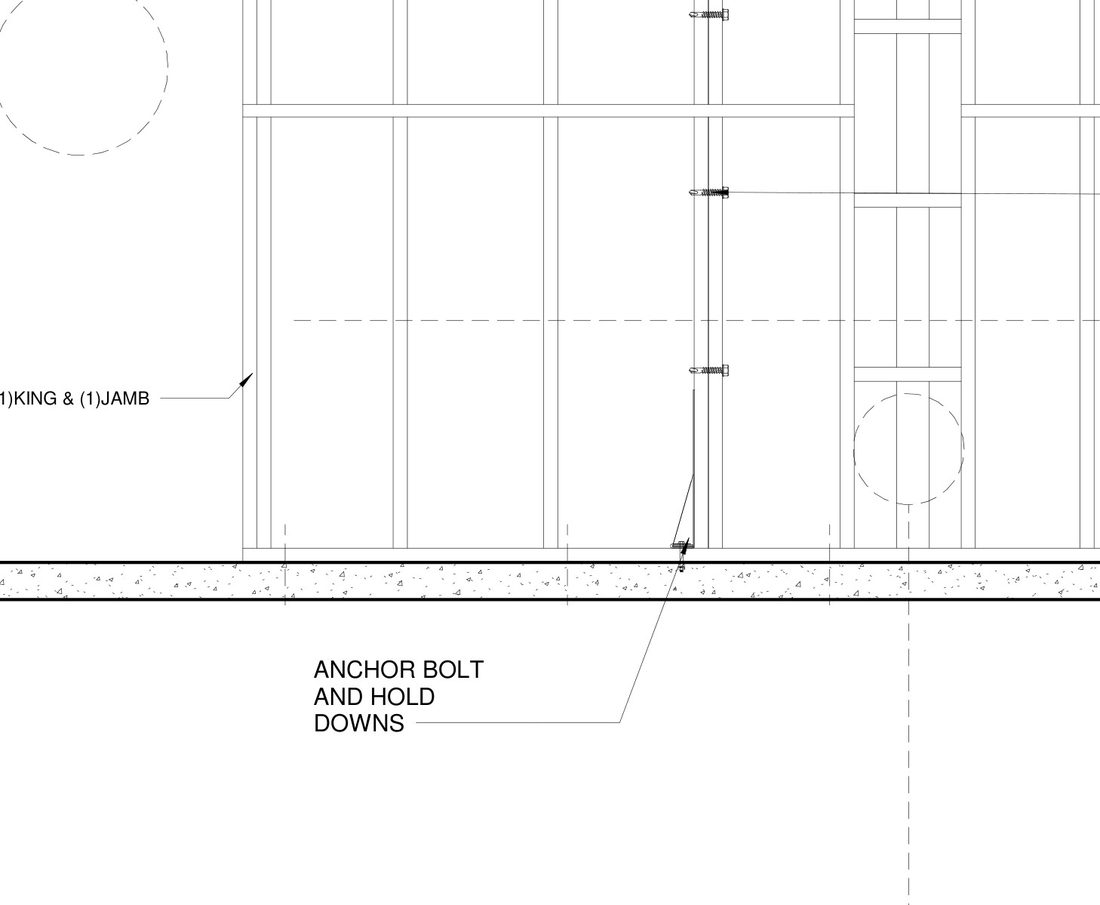
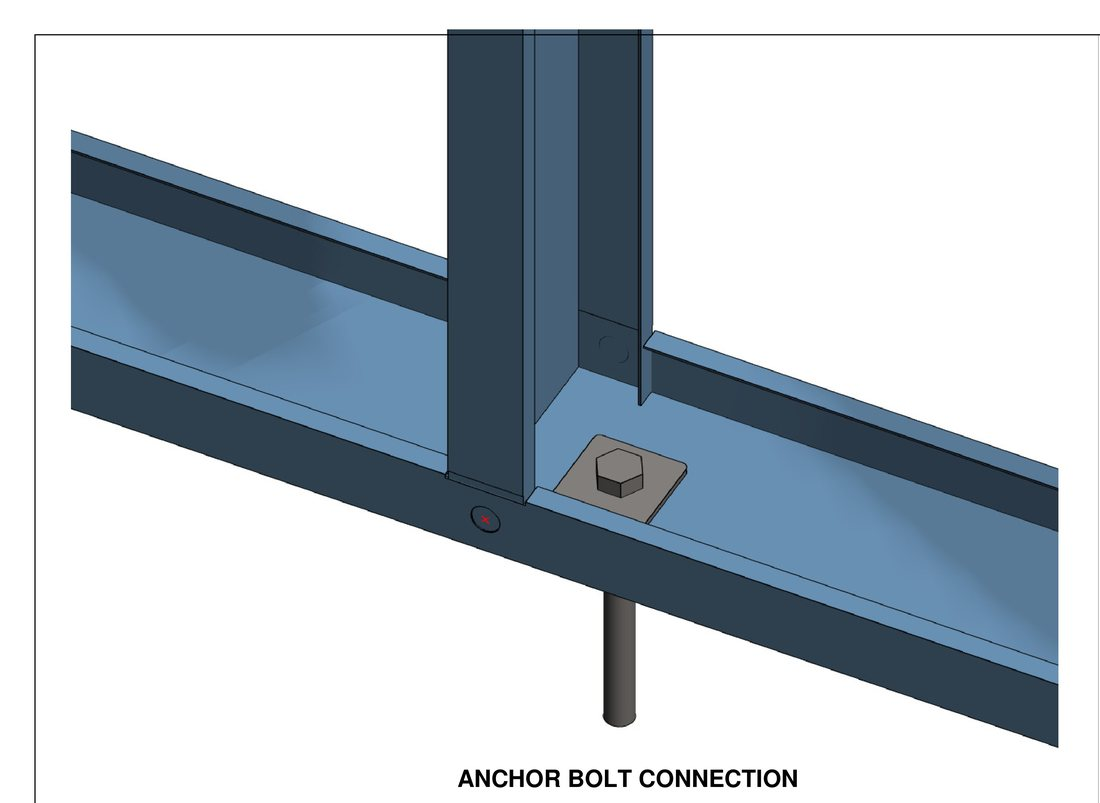
Add a real bolt image, upgrade hold-down/anchor to isometric crops (#56)
The client's fuller TYPICAL_DETAILS.pdf upload (sheets S660/S661/S662,
beyond the first upload's S620/S640/S650) carries the same project's own
3D-rendered isometric connection details rather than flat 2D callouts:

- bolt: sheet S661's "PANEL TO PANEL CONNECTION" shows two real hex bolt
  heads partway up a stud — a genuine structural bolt, unlike the
  self-drilling screws (#10/#12) the first upload only ever showed, which
  is why this hotspot had no image until now.
- hold-down / anchor: swapped from the first pass's flat 2D crops to sheet
  S660's own "HOLDDOWN CONNECTION" / "ANCHOR BOLT CONNECTION" isometrics —
  same real connections, clearer picture of them.

top-track and sheathing are untouched: no equivalent isometric exists for
either in the newer sheets, so their existing crops stand.

Bumps the site's shared cache-bust version (index.html) to v=56.

Claude-Session: https://claude.ai/code/session_017cek8tGGv9x21jDEq8oUay

diff --git a/ui_kits/website/index.html b/ui_kits/website/index.html
@@ -27,8 +27,8 @@
      locally-referenced file's content changes; anything unbumped keeps
      whatever cached copy a visitor already has, which is the whole
      problem this exists to avoid. -->
-<link rel="stylesheet" href="../../styles.css?v=55">
-<link rel="stylesheet" href="responsive.css?v=55">
+<link rel="stylesheet" href="../../styles.css?v=56">
+<link rel="stylesheet" href="responsive.css?v=56">
 <script type="application/ld+json">
 {"@context":"https://schema.org","@type":"ProfessionalService","name":"UBC BIM","description":"BIM detailing for wood-frame and light-gauge-steel construction: wall panels, roof and floor trusses, MEP coordination, permit sets and machine files.","url":"https://ubc-bim.vercel.app/","image":"https://ubc-bim.vercel.app/ui_kits/website/assets/frames/05-facade.jpg","areaServed":"Worldwide","knowsAbout":["Building Information Modelling","Light-gauge steel framing","Wood frame construction","Roof and floor trusses","MEP clash detection","Permit documentation"],"serviceType":["Wall panel detailing","Roof and floor trusses","Engineering of walls and trusses","MEP detailing and clash detection","Permit documents","Bill of Materials and machine CSV","Architectural drafting"]}
 </script>
@@ -37,8 +37,8 @@
 <script src="https://unpkg.com/@babel/standalone@7.29.0/babel.min.js" integrity="sha384-m08KidiNqLdpJqLq95G/LEi8Qvjl/xUYll3QILypMoQ65QorJ9Lvtp2RXYGBFj1y" crossorigin="anonymous"></script>
 <script src="https://unpkg.com/animejs@3.2.1/lib/anime.min.js" integrity="sha384-fXdIufVbE9aU7STmdk/DWK0imNOozId9fTwzM/gi0NfPjphEIC3gq0M760UnsKVy" crossorigin="anonymous"></script>
 <script src="assets/vendor/cobe.js"></script>
-<script src="../../_ds_bundle.js?v=55"></script>
-<script src="data.js?v=55"></script>
+<script src="../../_ds_bundle.js?v=56"></script>
+<script src="data.js?v=56"></script>
 <style>@keyframes ubcRing{0%{transform:translateX(-50%) rotate(0)}18%{transform:translateX(-50%) rotate(-13deg)}38%{transform:translateX(-50%) rotate(11deg)}58%{transform:translateX(-50%) rotate(-7deg)}78%{transform:translateX(-50%) rotate(4deg)}100%{transform:translateX(-50%) rotate(0)}}@keyframes ubcPulse{0%{opacity:.9;transform:translateX(-50%) scale(1)}100%{opacity:0;transform:translateX(-50%) scale(2.6)}}@keyframes ubcCaret{0%,49%{opacity:1}50%,100%{opacity:0}}@keyframes ubcMarqueeV{from{transform:translateY(0)}to{transform:translateY(calc(-100% - var(--ubc-mq-gap)))}}@keyframes ubcHotspotPulse{0%{opacity:.9;transform:scale(1)}100%{opacity:0;transform:scale(2.2)}}</style>
 </head><body><div id="root"></div>
 <noscript>
@@ -58,18 +58,18 @@
     <p>783 projects completed across 12 countries, for 224 clients, by a team of 73.</p>
   </main>
 </noscript>
-<script type="text/babel" src="ModelViewer.jsx?v=55"></script>
-<script type="text/babel" src="FramingSchematic.jsx?v=55"></script>
-<script type="text/babel" src="SceneHero.jsx?v=55"></script>
-<script type="text/babel" src="Home.jsx?v=55"></script>
-<script type="text/babel" src="Portfolio.jsx?v=55"></script>
-<script type="text/babel" src="MockingBirdModel.jsx?v=55"></script>
-<script type="text/babel" src="ServicesDetail.jsx?v=55"></script>
-<script type="text/babel" src="About.jsx?v=55"></script>
-<script type="text/babel" src="ContactScene.jsx?v=55"></script>
-<script type="text/babel" src="Contact.jsx?v=55"></script>
-<script type="text/babel" src="Careers.jsx?v=55"></script>
-<script type="text/babel" src="ChatBot.jsx?v=55"></script>
+<script type="text/babel" src="ModelViewer.jsx?v=56"></script>
+<script type="text/babel" src="FramingSchematic.jsx?v=56"></script>
+<script type="text/babel" src="SceneHero.jsx?v=56"></script>
+<script type="text/babel" src="Home.jsx?v=56"></script>
+<script type="text/babel" src="Portfolio.jsx?v=56"></script>
+<script type="text/babel" src="MockingBirdModel.jsx?v=56"></script>
+<script type="text/babel" src="ServicesDetail.jsx?v=56"></script>
+<script type="text/babel" src="About.jsx?v=56"></script>
+<script type="text/babel" src="ContactScene.jsx?v=56"></script>
+<script type="text/babel" src="Contact.jsx?v=56"></script>
+<script type="text/babel" src="Careers.jsx?v=56"></script>
+<script type="text/babel" src="ChatBot.jsx?v=56"></script>
 <script type="text/babel">
 const { Header, Footer, StickyQuote, Button, FormField, Input, Select, Textarea, Icon, SectionHeading } = window.UBCBIMDesignSystem_353af8;
 

diff --git a/ui_kits/website/data.js b/ui_kits/website/data.js
@@ -396,15 +396,25 @@ window.UBC_DATA.hero = {
 
    image: real crops of the client's own TYPICAL_DETAILS.pdf (assets/
    details/wp-*.jpg), taken directly from that PDF's own drawn sheets
-   rather than rendered separately — hold-down from its "TYPICAL HOLDDOWN
-   DETAIL" isometric, anchor from the base-of-wall elevation labelled
-   "ANCHOR BOLT AND HOLD DOWNS", top-track from "TYPICAL VERTICAL STUD
-   TRACK CONNECTION", sheathing from "TYPICAL SHEAR WALL DETAIL
-   PERPENDICULAR TO TRUSS". bolt has none: the PDF's own fastening details
-   only show self-drilling screws (#10/#12), never a structural bolt like
-   this one, so no real crop of it exists to show — its card falls back to
-   its own text-only body rather than borrowing a picture of something
-   else. */
+   rather than rendered separately. The client's first upload was 6 pages
+   (sheets S620/S640/S650); a fuller upload later added three more
+   (S660/S661/S662) with the same project's own 3D-rendered isometric
+   connection details rather than flat 2D callouts, so hold-down and
+   anchor were swapped from that first pass's 2D crops to these clearer
+   isometric ones once the fuller PDF made them available — same real
+   connections either way, just a better picture of them:
+    - hold-down: sheet S660's own "HOLDDOWN CONNECTION" isometric.
+    - anchor: sheet S660's own "ANCHOR BOLT CONNECTION" isometric.
+    - top-track: "TYPICAL VERTICAL STUD TRACK CONNECTION" (first upload,
+      sheet S650) — no equivalent isometric in the later sheets, so this
+      2D one stands.
+    - sheathing: "TYPICAL SHEAR WALL DETAIL PERPENDICULAR TO TRUSS" (first
+      upload, sheet S640) — same reason.
+    - bolt: sheet S661's own "PANEL TO PANEL CONNECTION" isometric, the
+      two hex bolt heads visible partway up the stud — genuinely a
+      structural bolt, not one of the self-drilling screws (#10/#12) the
+      first 6-page upload only ever showed, which is why this one had no
+      image before the fuller PDF arrived. */
 window.UBC_DATA.wallPanelModel = {
   src: 'assets/models/m2-wall-panel.glb', radius: 4.17,
   restAngle: [-2.52, 1.42, -2.20],
@@ -416,6 +426,7 @@ window.UBC_DATA.wallPanelModel = {
       image: 'assets/details/wp-anchor.jpg',
       body: 'One of six base anchor connections along this panel’s bottom track, holding it down against whatever it lands on — slab or foundation — before any stud or sheathing load is even applied.' },
     { id: 'bolt', label: 'Structural bolt', position: [-0.057, 1.106, 2.058], viewAngle: [0.6, 0.9, 1.8],
+      image: 'assets/details/wp-bolt.jpg',
       body: 'A 1/2 in. A325 structural bolt, 12 mm × 200 mm — the grade used through most of this panel’s stud-to-track and panel-to-panel connections. A single heavier A490 bolt appears once elsewhere on the same panel, at the one connection sized to need it.' },
     { id: 'top-track', label: 'Top track', position: [-2.953, 1.54, 0.0], viewAngle: [-1.7, 0.7, 0.9],
       image: 'assets/details/wp-top-track.jpg',
